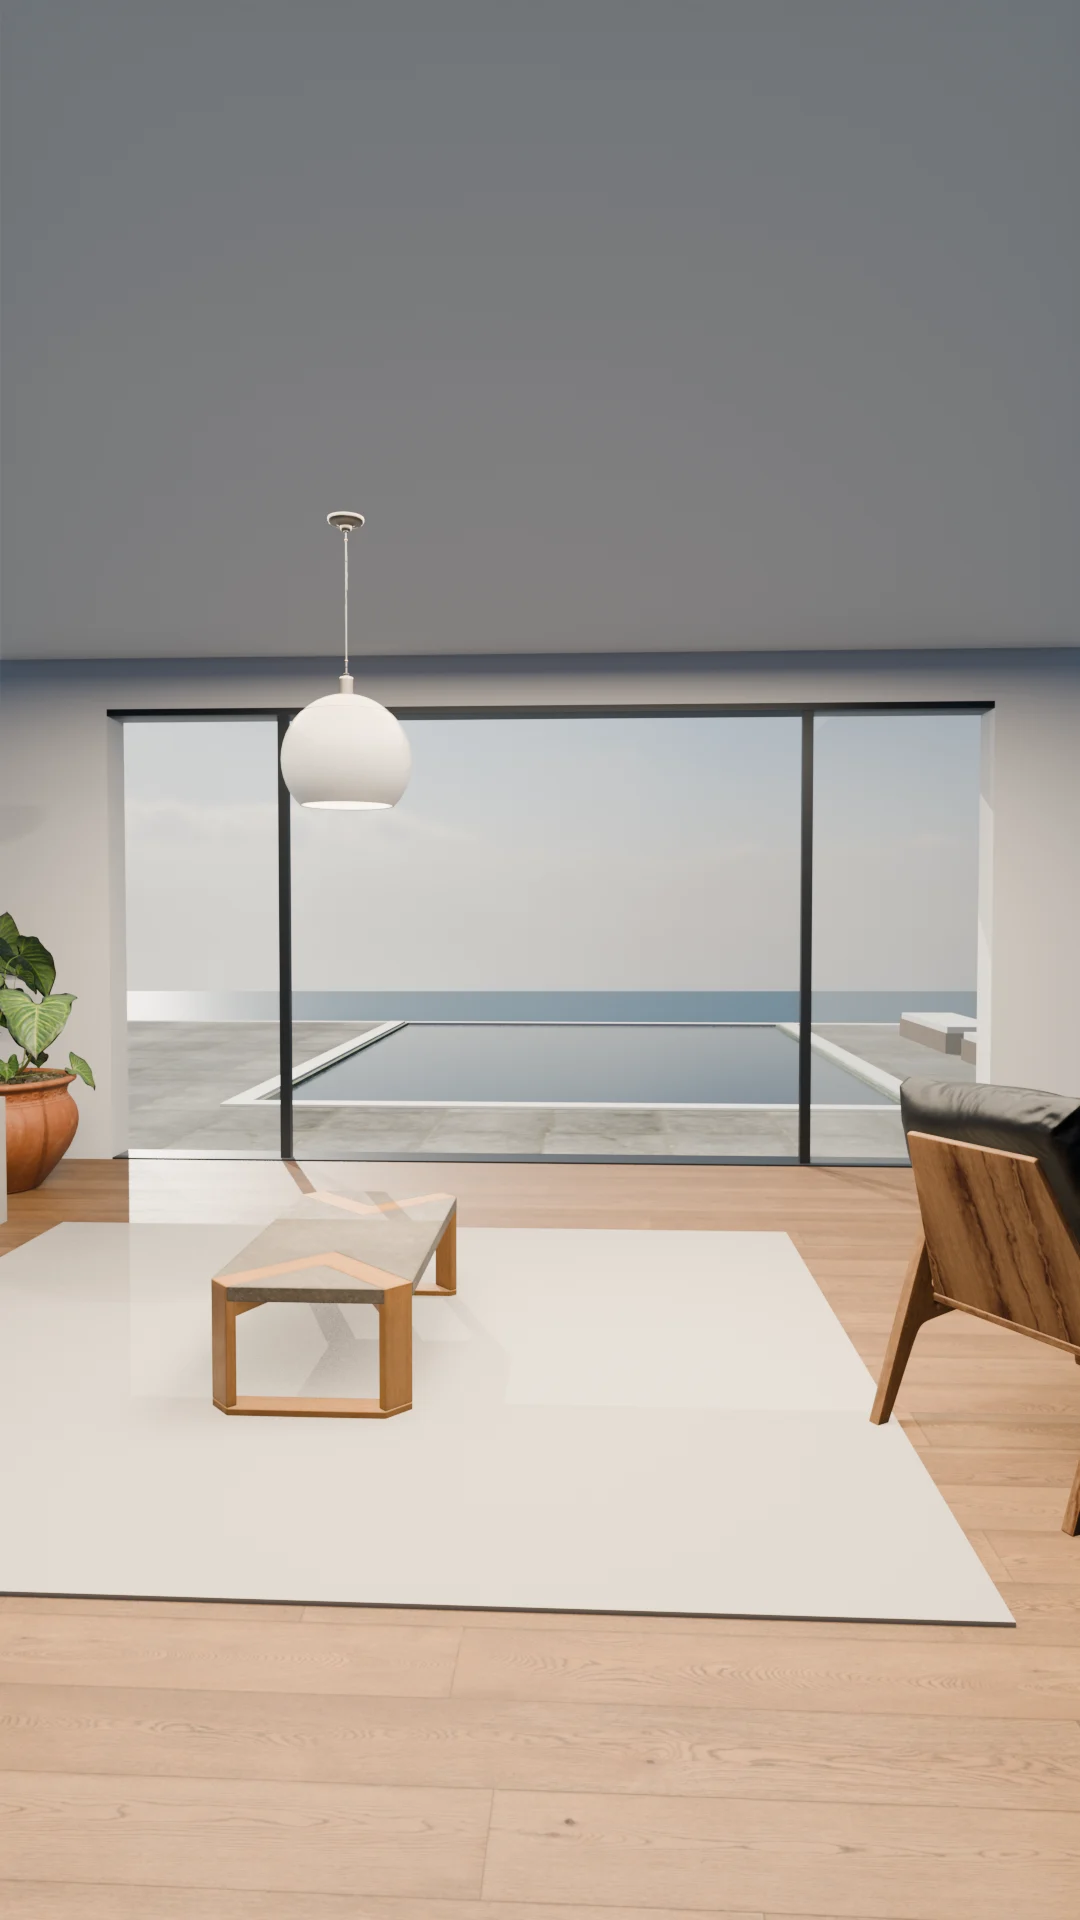
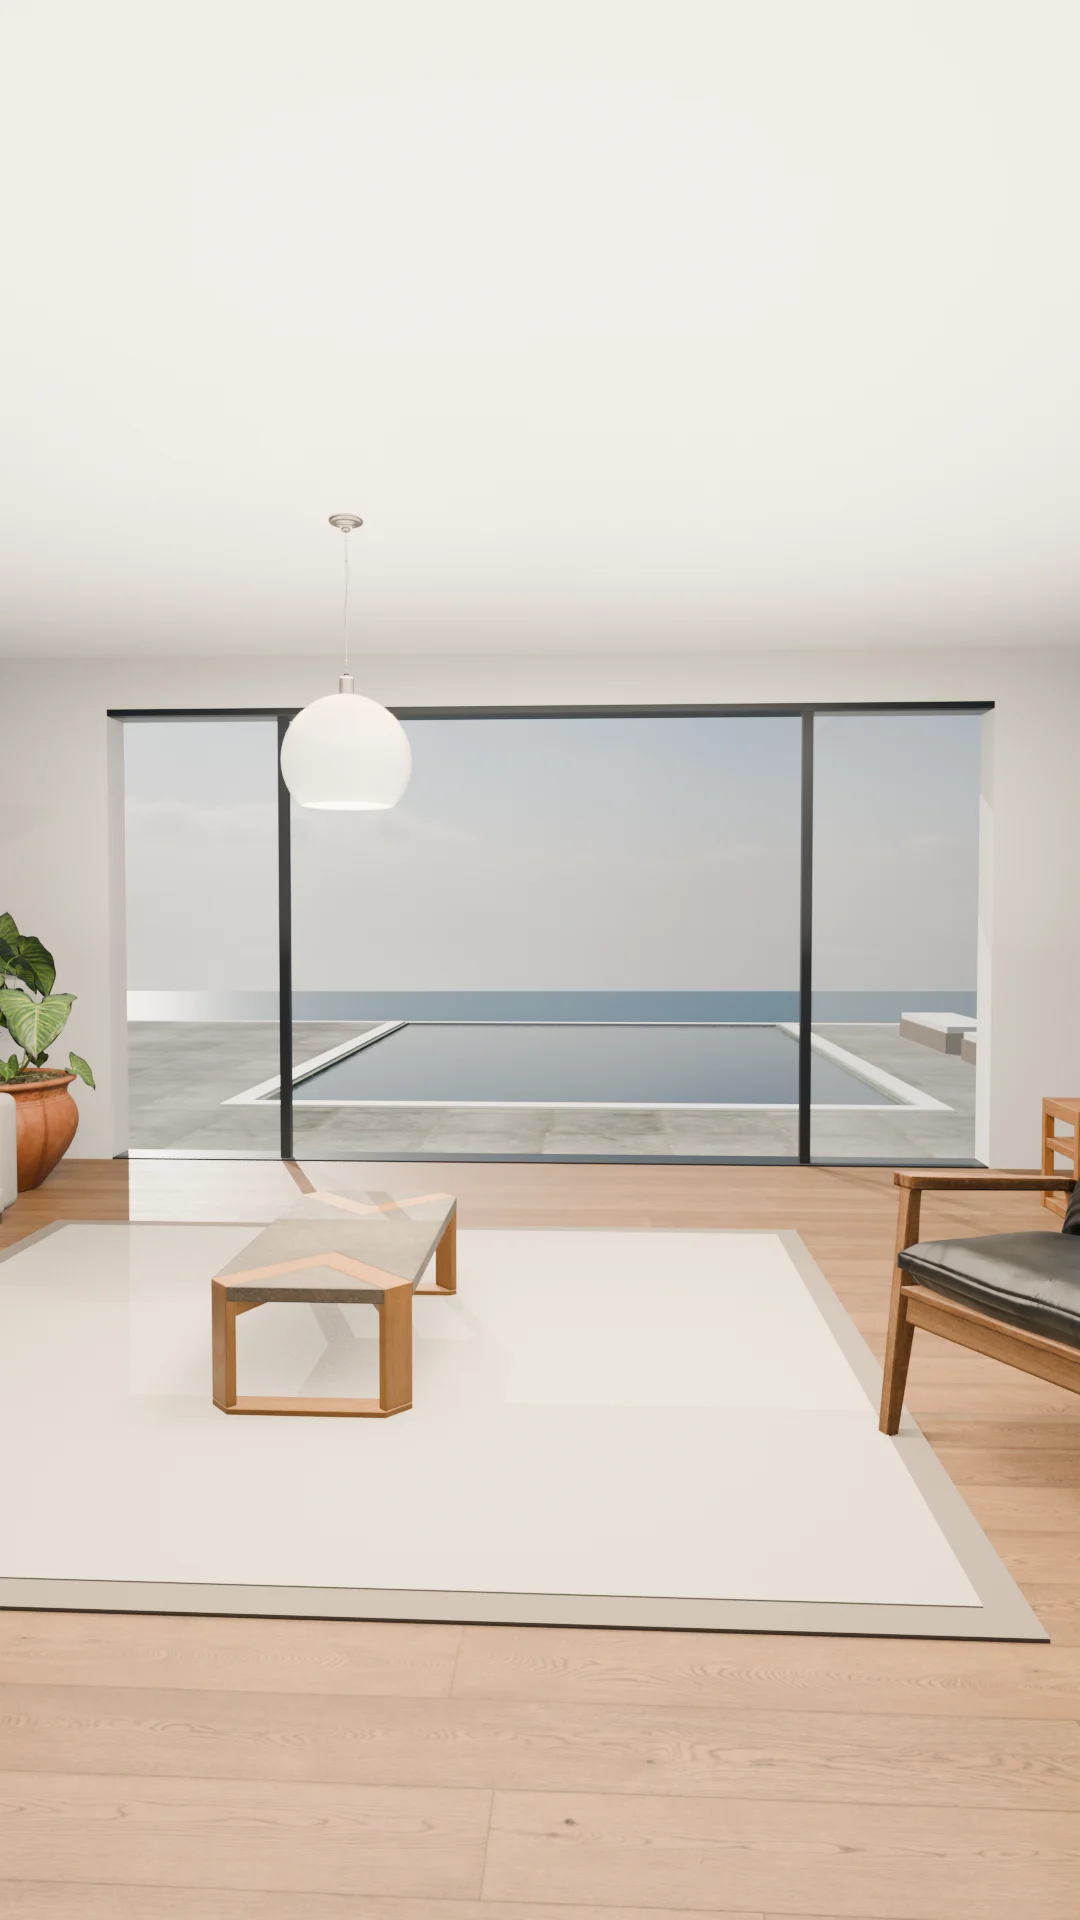
Home hero: scroll-driven camera move through the render
Canvas scrubber over the still: 36 desktop frames (hero held sticky while
the camera moves) and 18 upright phone frames (no hold). Frames load after
page load when idle; never for reduced motion, Data Saver or 2G. Re-rendered
stills and frames with the improved scene.

diff --git a/src/components/home-hero-scene.tsx b/src/components/home-hero-scene.tsx
@@ -1,0 +1,154 @@
+"use client";
+
+import { useEffect, useRef, useState } from "react";
+
+/**
+ * The scroll-driven camera move behind the home hero (concept A, "Arrival",
+ * owner 25 Nov 2026): the render walks from the living room, through the
+ * open doors, out to the pool as the visitor scrolls.
+ *
+ * It is a layer over the still photo in HomeHeroPhoto, never a replacement:
+ * the still is the first paint, and stays the whole experience for anyone who
+ * turns motion off, has Data Saver on, or is on a 2G connection. For
+ * everyone else the frames load only after the page has finished loading and
+ * the browser is idle, and the canvas fades in once all of them are ready.
+ *
+ *   Desktop (from md): 36 frames, 1600×900 WebP, about 0.9 MB in all. The
+ *   hero is held (sticky) for 70vh of scrolling while the camera moves; see
+ *   the `motion-safe:` height on #discover in app/page.tsx.
+ *   Phones: 18 upright frames, 828×1472 WebP, about 0.3 MB. Nothing is held;
+ *   the move plays as the hero scrolls away, so the page is no longer.
+ *
+ * Frames are static files in public/hero/frames, rendered with the Blender
+ * set-up in hero-render/ (outside the repo).
+ */
+const SETS = {
+  desktop: { dir: "/hero/frames/d", count: 36 },
+  phone: { dir: "/hero/frames/p", count: 18 },
+} as const;
+const OBJECT_Y = 0.58; // matches the still's object-position: center 58%
+
+function frameUrl(dir: string, i: number) {
+  return `${dir}/${String(i + 1).padStart(2, "0")}.webp`;
+}
+
+function allowed(): boolean {
+  if (window.matchMedia("(prefers-reduced-motion: reduce)").matches) return false;
+  const conn = (navigator as Navigator & { connection?: { saveData?: boolean; effectiveType?: string } }).connection;
+  if (conn?.saveData) return false;
+  // Only 2G: Chrome reports "3g" for many ordinary desktop links (it is an RTT
+  // estimate), and the frames load after the page anyway.
+  if (conn?.effectiveType && /(^|-)2g$/.test(conn.effectiveType)) return false;
+  return true;
+}
+
+export default function HomeHeroScene() {
+  const canvasRef = useRef<HTMLCanvasElement>(null);
+  const [ready, setReady] = useState(false);
+
+  useEffect(() => {
+    const canvas = canvasRef.current;
+    const hero = canvas?.closest<HTMLElement>("#discover");
+    if (!canvas || !hero || !allowed()) return;
+
+    const desktop = window.matchMedia("(min-width: 768px)").matches;
+    const set = desktop ? SETS.desktop : SETS.phone;
+    const frames: (HTMLImageElement | null)[] = new Array(set.count).fill(null);
+    let cancelled = false;
+    let drawn = -1;
+    let raf = 0;
+
+    function progress(): number {
+      const rect = hero!.getBoundingClientRect();
+      const vh = window.innerHeight;
+      const stage = canvas!.parentElement!.getBoundingClientRect().height;
+      // Held on desktop: the section is taller than its sticky stage, and the
+      // move spans exactly the extra height. Otherwise: from the top of the
+      // page until the hero's bottom edge reaches 35% of the screen.
+      const held = hero!.offsetHeight - stage > 8;
+      const span = held ? hero!.offsetHeight - stage : Math.max(200, rect.bottom + window.scrollY - 0.35 * vh);
+      const travelled = held ? -rect.top : window.scrollY;
+      return Math.min(1, Math.max(0, travelled / span));
+    }
+
+    function draw(force = false) {
+      raf = 0;
+      const i = Math.round(progress() * (set.count - 1));
+      // Nearest loaded frame, so a slow load never shows a blank.
+      let pick = i;
+      while (pick > 0 && !frames[pick]) pick--;
+      const img = frames[pick];
+      if (!img || (!force && pick === drawn)) return;
+      const ctx = canvas!.getContext("2d");
+      if (!ctx) return;
+      const { width: cw, height: ch } = canvas!;
+      const scale = Math.max(cw / img.naturalWidth, ch / img.naturalHeight);
+      const w = img.naturalWidth * scale;
+      const h = img.naturalHeight * scale;
+      ctx.drawImage(img, (cw - w) / 2, (ch - h) * OBJECT_Y, w, h);
+      drawn = pick;
+    }
+
+    function size() {
+      const box = canvas!.parentElement!.getBoundingClientRect();
+      const dpr = Math.min(1.5, window.devicePixelRatio || 1);
+      canvas!.width = Math.round(box.width * dpr);
+      canvas!.height = Math.round(box.height * dpr);
+      draw(true);
+    }
+
+    const onScroll = () => {
+      if (!raf) raf = requestAnimationFrame(() => draw());
+    };
+
+    async function load() {
+      let next = 0;
+      const worker = async () => {
+        while (!cancelled && next < set.count) {
+          const i = next++;
+          const img = new Image();
+          img.decoding = "async";
+          img.src = frameUrl(set.dir, i);
+          try {
+            await img.decode();
+            frames[i] = img;
+          } catch {
+            // A missing frame is skipped; the nearest earlier one is drawn.
+          }
+        }
+      };
+      await Promise.all([worker(), worker(), worker(), worker()]);
+      if (cancelled || !frames[0]) return;
+      size();
+      setReady(true);
+    }
+
+    // Only once the page has loaded and the browser is idle: the frames never
+    // compete with the still photo, the search or the listings.
+    const start = () => {
+      const idle = (window as Window & { requestIdleCallback?: (cb: () => void, o?: { timeout: number }) => number }).requestIdleCallback;
+      if (idle) idle(() => void load(), { timeout: 3000 });
+      else setTimeout(() => void load(), 1500);
+    };
+    if (document.readyState === "complete") start();
+    else window.addEventListener("load", start, { once: true });
+
+    window.addEventListener("scroll", onScroll, { passive: true });
+    window.addEventListener("resize", size);
+    return () => {
+      cancelled = true;
+      window.removeEventListener("load", start);
+      window.removeEventListener("scroll", onScroll);
+      window.removeEventListener("resize", size);
+      if (raf) cancelAnimationFrame(raf);
+    };
+  }, []);
+
+  return (
+    <canvas
+      ref={canvasRef}
+      aria-hidden="true"
+      className={`absolute inset-0 h-full w-full transition-opacity duration-500 motion-reduce:hidden ${ready ? "opacity-100" : "opacity-0"}`}
+    />
+  );
+}

diff --git a/src/app/page.tsx b/src/app/page.tsx
@@ -45,11 +45,19 @@ export default async function Home() {
           menus (z-[60]/61), over the sections below. No transform or filter
           on this section: the search panel's full-screen dialog is `fixed`,
           and either would trap it inside the hero.
+
+          The scroll-driven camera move (HomeHeroScene, inside HomeHeroPhoto):
+          from `lg`, when motion is allowed, the section is 70vh taller than
+          its stage and the stage is sticky, so the hero holds still while the
+          camera moves through the house; the search stays in place and usable
+          the whole time. Phones and reduced motion get no hold. `sticky` does
+          not trap the fixed filters dialog (only transform/filter would).
         */}
         <section
           id="discover"
-          className="relative z-40 -mx-3 -mt-4 flex min-h-[580px] flex-col justify-end sm:min-h-[640px] md:-mx-6 lg:-mx-8 lg:-mt-[114px] lg:min-h-[min(860px,94vh)]"
+          className="relative z-40 -mx-3 -mt-4 md:-mx-6 lg:-mx-8 lg:-mt-[114px] motion-safe:lg:h-[calc(min(860px,94vh)+70vh)]"
         >
+          <div className="relative isolate flex min-h-[580px] flex-col justify-end sm:min-h-[640px] lg:h-[min(860px,94vh)] lg:min-h-0 motion-safe:lg:sticky motion-safe:lg:top-0">
           <HomeHeroPhoto />
           <div className="mx-auto w-full max-w-[1440px] px-3 pb-8 pt-40 sm:px-6 sm:pb-12 md:px-8 lg:px-10 lg:pb-16">
             {/*
@@ -91,6 +99,7 @@ export default async function Home() {
               does not substantiate. Counts belong on the results page, where
               they describe a real query. Removed per the Improvement Notes.
             */}
+          </div>
           </div>
         </section>
 

diff --git a/src/components/home-hero-photo.tsx b/src/components/home-hero-photo.tsx
@@ -1,5 +1,7 @@
 import { getImageProps } from "next/image";
 
+import HomeHeroScene from "@/components/home-hero-scene";
+
 /**
  * The photograph behind the home hero (owner, 25 Nov 2026): a coastal living
  * room opening onto a pool and the sea. It is our own 3D render (Blender, CC0
@@ -43,6 +45,9 @@ export default function HomeHeroPhoto() {
           className="h-full w-full object-cover object-[center_58%]"
         />
       </picture>
+      {/* The scroll-driven camera move, drawn over the still once its frames
+          have loaded (never for reduced motion, Data Saver or 2G). */}
+      <HomeHeroScene />
       {/* Dark mode: the render is daylight, so it is dimmed rather than swapped. */}
       <div className="absolute inset-0 dark:bg-[rgba(4,10,12,0.45)]" />
       <div className="home-hero-fade absolute inset-0" />

diff --git a/docs/TO-DO.md b/docs/TO-DO.md
@@ -60,7 +60,7 @@ In XCORE these items (and all phone work done since 2 Nov) are tracked in the **
 - [x] **U8** *Done 20 Nov (owner's phone review, CoreFlow notes):* controls sit with what they change. Search: view switch and sort on the results line, not in the search card (count is screen-reader-only on phones). Area pages (/for-sale, /to-rent, province, city): homes first, directory and "Also see" below. Listing page: one Street View / Map switch; True Cost offer price on one line. Compare: Back on the left, to where you came from. Card photo dots bottom-right, clear of the price. Map: scroll fade on chip rows, labelled layer buttons. Owner score 90 → 92.
 - [x] **U2** Mobile speed (old S15): home LCP ≤ 4 s, search TBT ≤ 1,200 ms, Lighthouse mobile ≥ 70. *Done 24 Nov:* measured with Google PageSpeed Insights (mobile, live site). Home: score 71 → **98**, LCP 14.2 s → **2.3 s**, TBT 20 → 40 ms. /search: score 74 → **77**, LCP 7.3 → 5.3 s, TBT 10 → **130 ms**. Three changes: the home spotlight uses resized next/image photos (first slide preloaded) instead of full-size CSS backgrounds; card photos preload only for the first result on /search and /saved instead of every card; Firebase Auth no longer loads Google's sign-in iframe and gapi on every page (only when "Continue with Google" is clicked). Not done: /search still loads its listings in the browser, which is what holds its LCP at 5.3 s (server-rendering the first results would fix it).
 - [x] **U2b** /search first results server-rendered. *Done 24 Nov:* `search/page.tsx` is now a server page that fetches the catalogue (cached 5 minutes) and renders the results into the HTML; the client part moved to `search/search-content.tsx` and only queries Firestore itself if the server could not. Checked on the dev server: the HTML holds the same results the browser shows, with and without filters in the URL, and no hydration errors. Google PageSpeed Insights, mobile, live: score 77 → **90**, LCP 5.3 s → **3.4 s**, TBT 130 → **0 ms**, CLS 0.
-- [x] **H1** Home hero: full-width photo with a low fade (owner, 25 Nov). The frosted panel is replaced by our own Blender render of a coastal living room (CC0 Poly Haven assets; set-up in `hero-render/` outside the repo), wide crop on desktop and upright crop on phones via `getImageProps` art direction, under the floating header from `lg`. The page colour fades up behind the headline and search (`.home-hero-fade`). "Popular in SA" chips under the search removed (owner). Spotlight first slide no longer preloaded (hero photo is the largest paint). Not done: PageSpeed on live (measure after merge); scroll-driven camera move (concept A) parked until footage frames exist.
+- [x] **H1** Home hero: full-width photo with a low fade (owner, 25 Nov). The frosted panel is replaced by our own Blender render of a coastal living room (CC0 Poly Haven assets; set-up in `hero-render/` outside the repo), wide crop on desktop and upright crop on phones via `getImageProps` art direction, under the floating header from `lg`. The page colour fades up behind the headline and search (`.home-hero-fade`). "Popular in SA" chips under the search removed (owner). Spotlight first slide no longer preloaded (hero photo is the largest paint). Scroll-driven camera move (concept A) added: `home-hero-scene.tsx` scrubs a canvas through 36 rendered frames on desktop (hero held sticky for 70vh) and 18 upright frames on phones (no hold), loaded only after page load when idle; skipped for reduced motion, Data Saver and 2G. Render improved (armchair faces the room, upholstered sofa, rug border, lighter ceiling). Not done: PageSpeed on live (measure after merge); reduced-motion path checked in code only.
 - [x] **U3** Targets the UX plan didn't fully meet: home ≤ ~3,500 px tall at 1280 (now 4,772); first search card in the top half at 375×812 (now 514 px); agent card above the fold on the listing page at 1280×800. *Done 24 Nov (owner chose the layouts):* home at 1280 is 3,130 px (was 4,492) — the six homes are a 3-column grid on desktop, still the list on phones; first search result at 375×812 starts at 404 px (was 446) by tightening the search card's spacing on phones only; on the listing page the photographs head the left column and the agent card sits beside them, at 204–544 px on a 1280×800 screen (was 874). Title and price stack between 1024 and 1279 px so the title fits the narrower photo.
 - [x] **U4** Sign-in: real Google logo instead of the plain "G". *Done 23 Nov:* Google's four-colour mark (`components/google-logo.tsx`) on "Continue with Google" on `/auth/login` and `/auth/signup`.
 - [x] **U5** Sold listing page: the hero still says "Asking price" — show the sale (or "Sold") clearly. *Done 23 Nov:* the hero and the phone price bar say "Sold for R …" / "Rented for, per month R …" when the seller agreed to show the price, and "Sold" / "Rented · Price not disclosed" when not; the page description says "Sold." instead of "Asking R …". Checked at 1280 and 375 px with two throwaway listings (since deleted).
